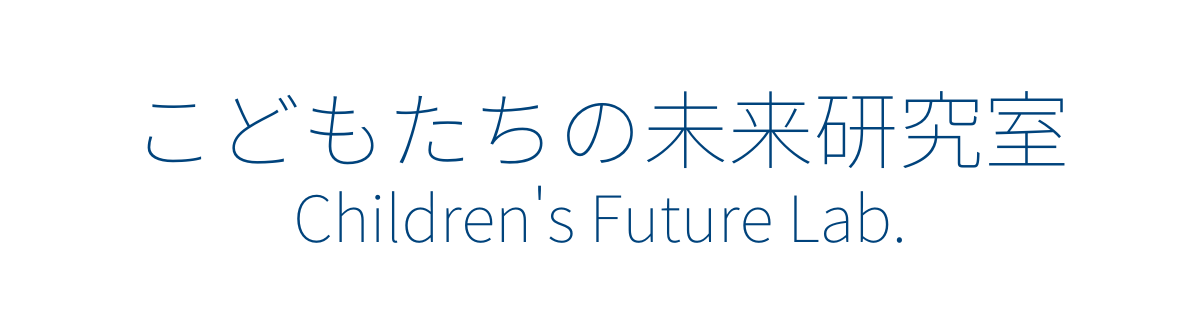
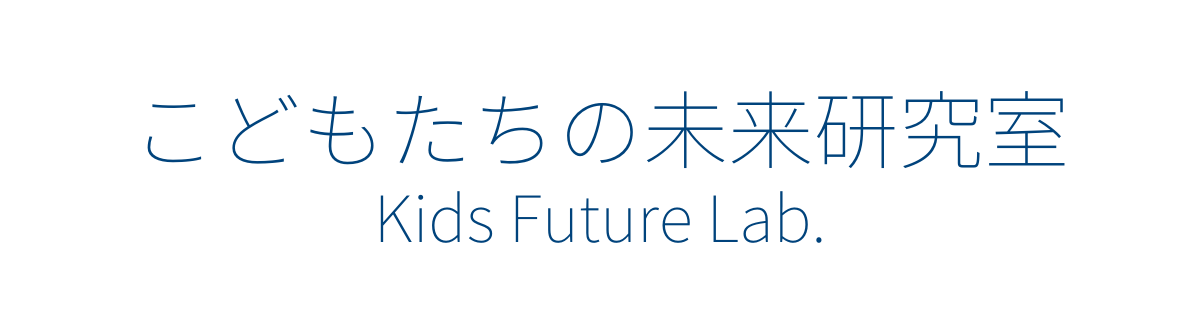
change header and align layout

Changed region(s): [[0.2467, 0.5758, 0.74, 0.7576], [0.4317, 0.5758, 0.4625, 0.6061]]

diff --git a/static/magazine/index.html b/static/magazine/index.html
@@ -11,8 +11,7 @@ image : /assets/images/common/ogp.png
     {% assign limited_posts = site.data.note.limited_posts | to_integer %}
     {% for post in site.posts limit:limited_posts %}
       <article class="post-item">
-        <span class="post-meta date-label">{{ post.date | date: "%b %d" }}</span>
-        <div class="article-title"><a class="post-link" href="{{ post.url | prepend: site.baseurl }}">{{ post.title }}</a></div>
+        <a class="post-link" href="{{ post.url | prepend: site.baseurl }}">{{ post.title }}</a>
       </article>
     {% endfor %}
     <hr>
@@ -28,7 +27,6 @@ image : /assets/images/common/ogp.png
         {% for post in sorted-posts limit: 5 %}
         <article class="post-item">
           <a class="post-link" href="{{ post.url | prepend: site.baseurl }}">
-            <span class="post-date">{{ post.date | date: "%Y/%m/%d" }}</span>
             {{ post.title }}
           </a>
         </article>

diff --git a/_layouts/magazine.html b/_layouts/magazine.html
@@ -5,7 +5,9 @@ layout: default
   <div class="container">
   {% for magazine in site.data.note.magazines %}
     {% if magazine.category == page.category %}
-      <h1>{{ magazine.title }}</h1>
+    <h1>
+      <img src="/assets/images/note/{{ page.category }}.png" alt="{{ magazine.title }}">
+    </h1>
       <p style="margin-bottom: 30px;">{{ magazine.text }}</p>
     {% endif %}
   {% endfor %}

diff --git a/assets/scss/_crssrds.scss b/assets/scss/_crssrds.scss
@@ -343,20 +343,20 @@ pre {
 		p {
 			width: 100%;
 			height: auto;
-			margin: .5em 0 1.5em 0;
+			margin: 0 0 1.5em 0;
 		}
-		.post-item {
-			margin-bottom: 0.5em;
-		}
+		.post-item,
 		.post-date {
-			margin-right: .5em;
+			margin-bottom: 0.5em;
 		}
 	}
 }
 
 @media (max-width: 600px) {
 	.post-item {
-		border: 0;
+		border-top: 0;
+		border-left: 0;
+		border-right: 0;
 	}
 }
 
